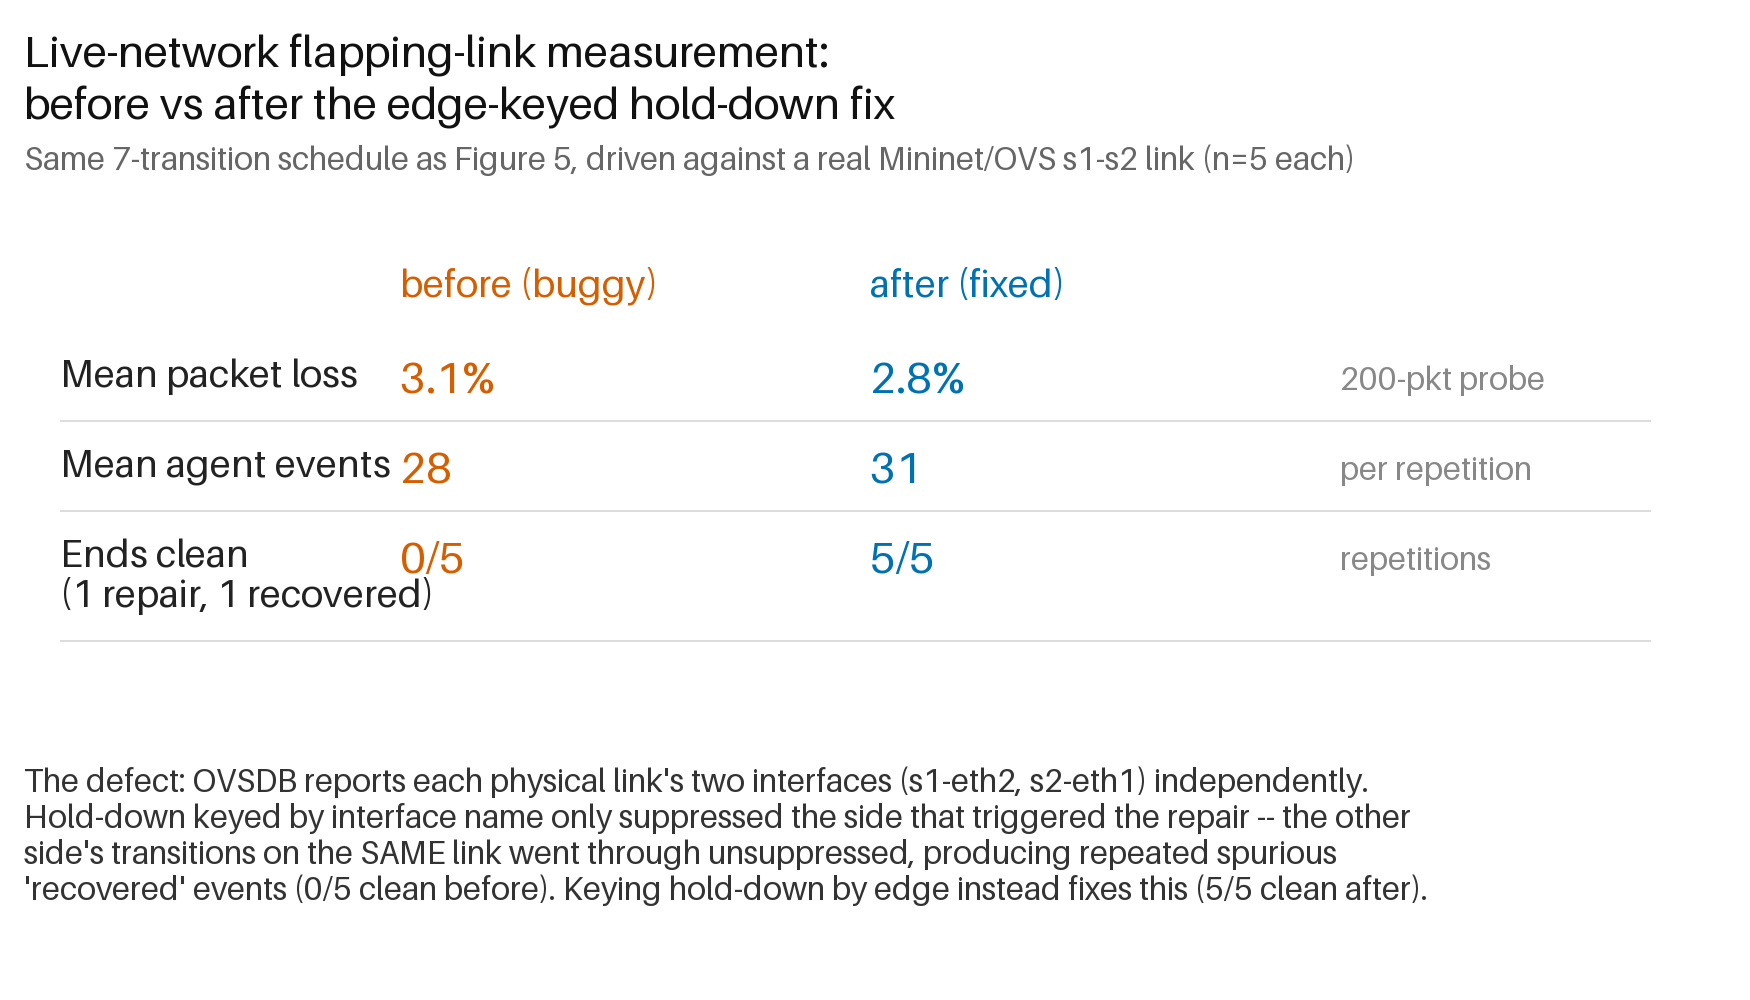
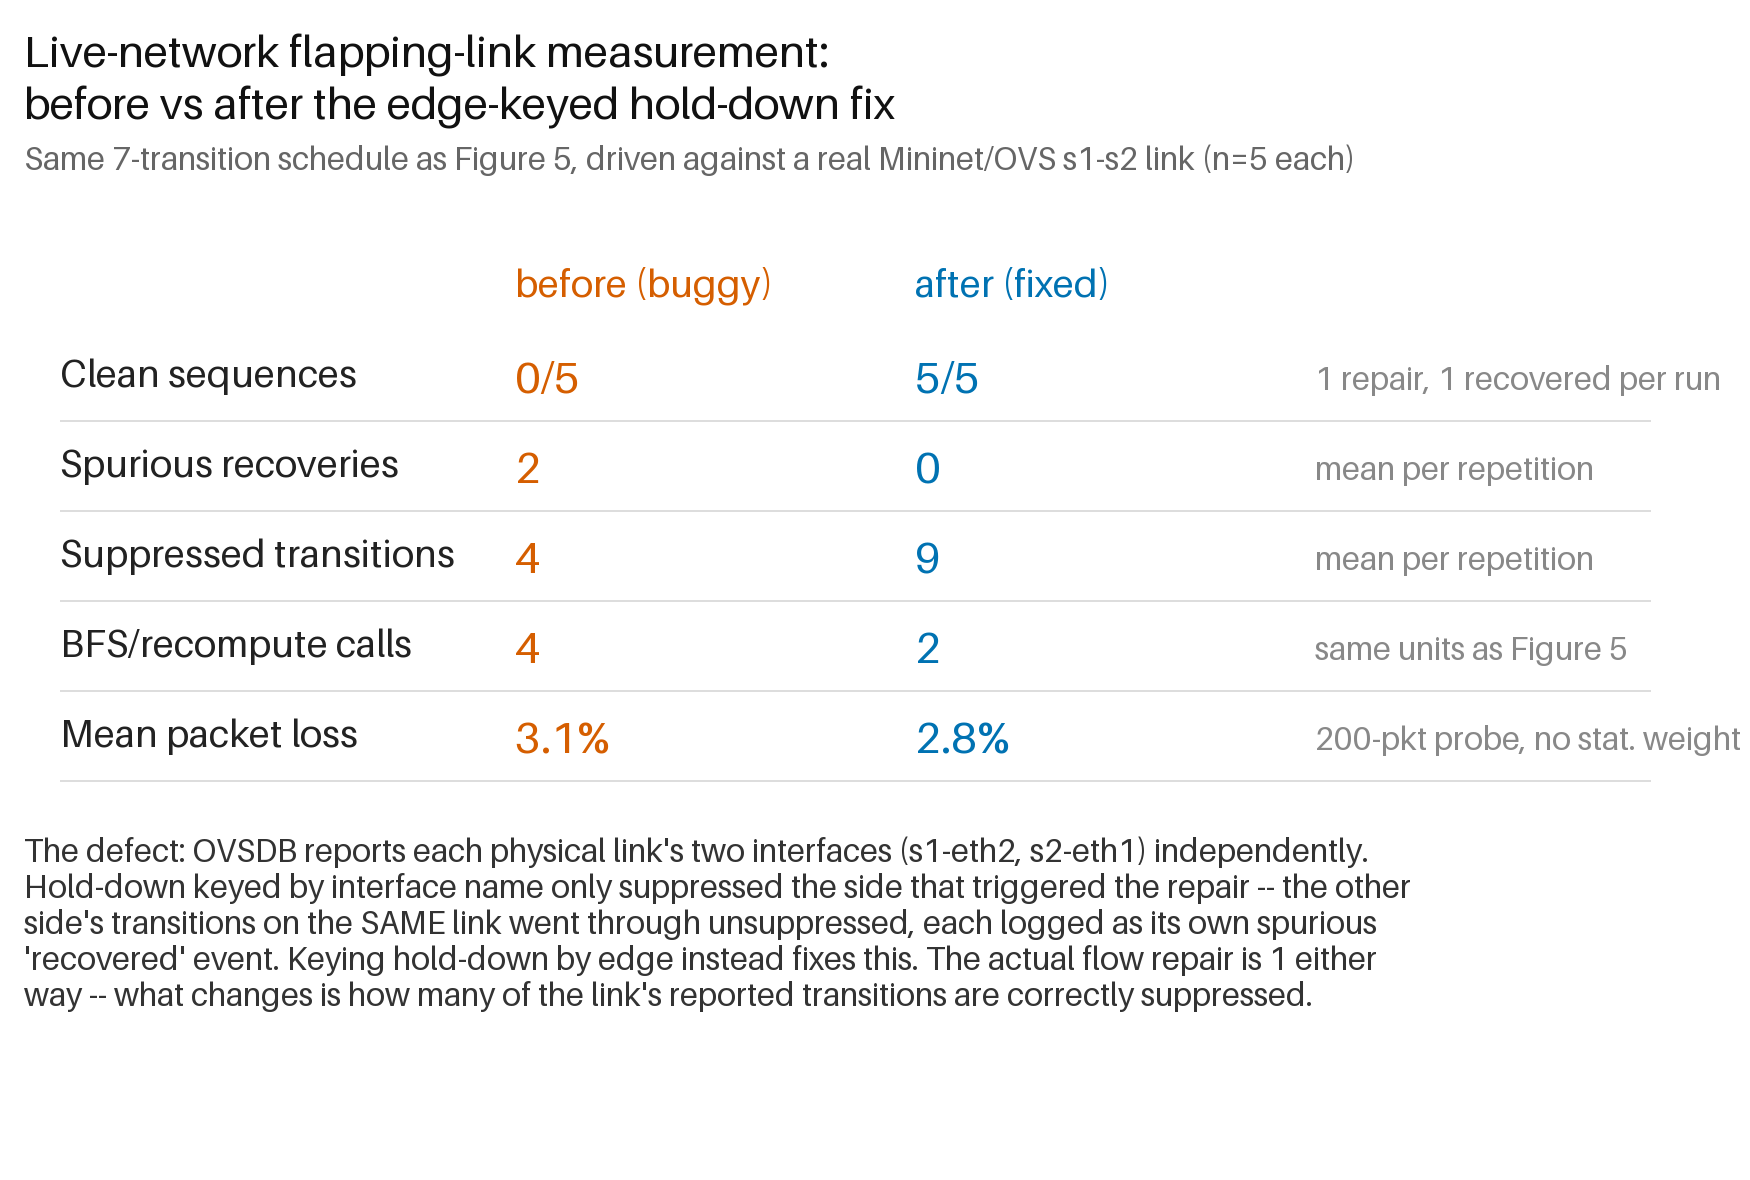
Improve Figure 6 metrics and layout (agent-events metric was misleading)
Replaced the "mean agent events" row (28->31, confusing since it went up
after the fix) with metrics that isolate what the fix actually changed:
clean sequences, spurious recoveries, suppressed transitions, and
BFS/recomputation calls (the last uses the same units as Figure 5's
logic-level result, so the two figures are now directly comparable).
Also fixed a label/value overlap for two-line row labels and a caption
that ran past the canvas edge.

diff --git a/analysis/paper3_analysis.py b/analysis/paper3_analysis.py
@@ -458,29 +458,33 @@ def draw_live_holddown_comparison(path):
 
     def stats(rows):
         losses = [float(r["packet_loss_pct"]) for r in rows]
-        events = [int(r["agent_event_count"]) for r in rows]
         # "Clean" means exactly one repair AND exactly one recovered for the
         # whole flap schedule -- the buggy interface-keyed version produced
         # *multiple* spurious "recovered" events (one per unsuppressed
         # transition on the interface that was never held down), so a
         # sequence ending in "recovered" is not by itself enough to tell the
         # two conditions apart; the repeated middle occurrences are what the
-        # figure needs to surface.
-        clean = sum(
-            1 for r in rows
-            if r["observed_action_sequence"].split(";").count("repair") == 1
-            and r["observed_action_sequence"].split(";").count("recovered") == 1
-        )
+        # figure needs to surface. "BFS/recomputation calls" mirrors the
+        # count reported for the logic-level test in Figure 5 (repair + noop
+        # + recovered actions, i.e. every action that is not "suppressed"),
+        # so the two figures use directly comparable units.
+        seqs = [r["observed_action_sequence"].split(";") for r in rows]
+        clean = sum(1 for s in seqs if s.count("repair") == 1 and s.count("recovered") == 1)
+        spurious_recovered = [s.count("recovered") - 1 for s in seqs]
+        suppressed = [s.count("suppressed") for s in seqs]
+        bfs_calls = [len(s) - s.count("suppressed") for s in seqs]
         return {
             "mean_loss": sum(losses) / len(losses),
-            "mean_events": sum(events) / len(events),
             "clean": clean,
             "n": len(rows),
+            "mean_spurious": sum(spurious_recovered) / len(spurious_recovered),
+            "mean_suppressed": sum(suppressed) / len(suppressed),
+            "mean_bfs": sum(bfs_calls) / len(bfs_calls),
         }
 
     pre_s, post_s = stats(pre), stats(post)
 
-    width, height = 1750, 1000
+    width, height = 1750, 1180
     image = Image.new("RGB", (width, height), "white")
     draw = ImageDraw.Draw(image)
     title_font = ImageFont.load_default(size=44)
@@ -496,34 +500,37 @@ def draw_live_holddown_comparison(path):
     )
 
     cols = [
-        ("Mean packet loss", f"{pre_s['mean_loss']:.1f}%", f"{post_s['mean_loss']:.1f}%", "200-pkt probe"),
-        ("Mean agent events", f"{pre_s['mean_events']:.0f}", f"{post_s['mean_events']:.0f}", "per repetition"),
-        ("Ends clean\n(1 repair, 1 recovered)", f"{pre_s['clean']}/{pre_s['n']}", f"{post_s['clean']}/{post_s['n']}", "repetitions"),
+        ("Clean sequences", f"{pre_s['clean']}/{pre_s['n']}", f"{post_s['clean']}/{post_s['n']}", "1 repair, 1 recovered per run"),
+        ("Spurious recoveries", f"{pre_s['mean_spurious']:.0f}", f"{post_s['mean_spurious']:.0f}", "mean per repetition"),
+        ("Suppressed transitions", f"{pre_s['mean_suppressed']:.0f}", f"{post_s['mean_suppressed']:.0f}", "mean per repetition"),
+        ("BFS/recompute calls", f"{pre_s['mean_bfs']:.0f}", f"{post_s['mean_bfs']:.0f}", "same units as Figure 5"),
+        ("Mean packet loss", f"{pre_s['mean_loss']:.1f}%", f"{post_s['mean_loss']:.1f}%", "200-pkt probe, no stat. weight"),
     ]
-    col_w = 470
+    label_w = max(draw.textlength(label, font=font) for label, *_ in cols)
+    val_col0 = 60 + int(label_w) + 60
+    col_w = 400
     left0 = 60
     top = 260
     row_h = 90
     header_y = top
-    draw.text((left0 + 340, header_y), "before (buggy)", fill="#D55E00", font=font)
-    draw.text((left0 + 340 + col_w, header_y), "after (fixed)", fill="#0072B2", font=font)
+    draw.text((val_col0, header_y), "before (buggy)", fill="#D55E00", font=font)
+    draw.text((val_col0 + col_w, header_y), "after (fixed)", fill="#0072B2", font=font)
     y = header_y + 90
     for label, before_val, after_val, unit in cols:
-        lb = label.split("\n")
-        for li, line in enumerate(lb):
-            draw.text((left0, y + li * 40), line, fill="#222222", font=font)
-        draw.text((left0 + 340, y), before_val, fill="#D55E00", font=title_font)
-        draw.text((left0 + 340 + col_w, y), after_val, fill="#0072B2", font=title_font)
-        draw.text((left0 + 340 + 2 * col_w, y + 8), unit, fill="#888888", font=small)
-        y += row_h + (40 if len(lb) > 1 else 0)
+        draw.text((left0, y), label, fill="#222222", font=font)
+        draw.text((val_col0, y), before_val, fill="#D55E00", font=title_font)
+        draw.text((val_col0 + col_w, y), after_val, fill="#0072B2", font=title_font)
+        draw.text((val_col0 + 2 * col_w, y + 8), unit, fill="#888888", font=small)
+        y += row_h
         draw.line((left0, y - 20, 1650, y - 20), fill="#dddddd", width=2)
 
     draw.text(
-        (24, 760),
+        (24, y + 30),
         "The defect: OVSDB reports each physical link's two interfaces (s1-eth2, s2-eth1) independently.\n"
         "Hold-down keyed by interface name only suppressed the side that triggered the repair -- the other\n"
-        "side's transitions on the SAME link went through unsuppressed, producing repeated spurious\n"
-        "'recovered' events (0/5 clean before). Keying hold-down by edge instead fixes this (5/5 clean after).",
+        "side's transitions on the SAME link went through unsuppressed, each logged as its own spurious\n"
+        "'recovered' event. Keying hold-down by edge instead fixes this. The actual flow repair is 1 either\n"
+        "way -- what changes is how many of the link's reported transitions are correctly suppressed.",
         fill="#333333", font=small,
     )
     image.save(path)
